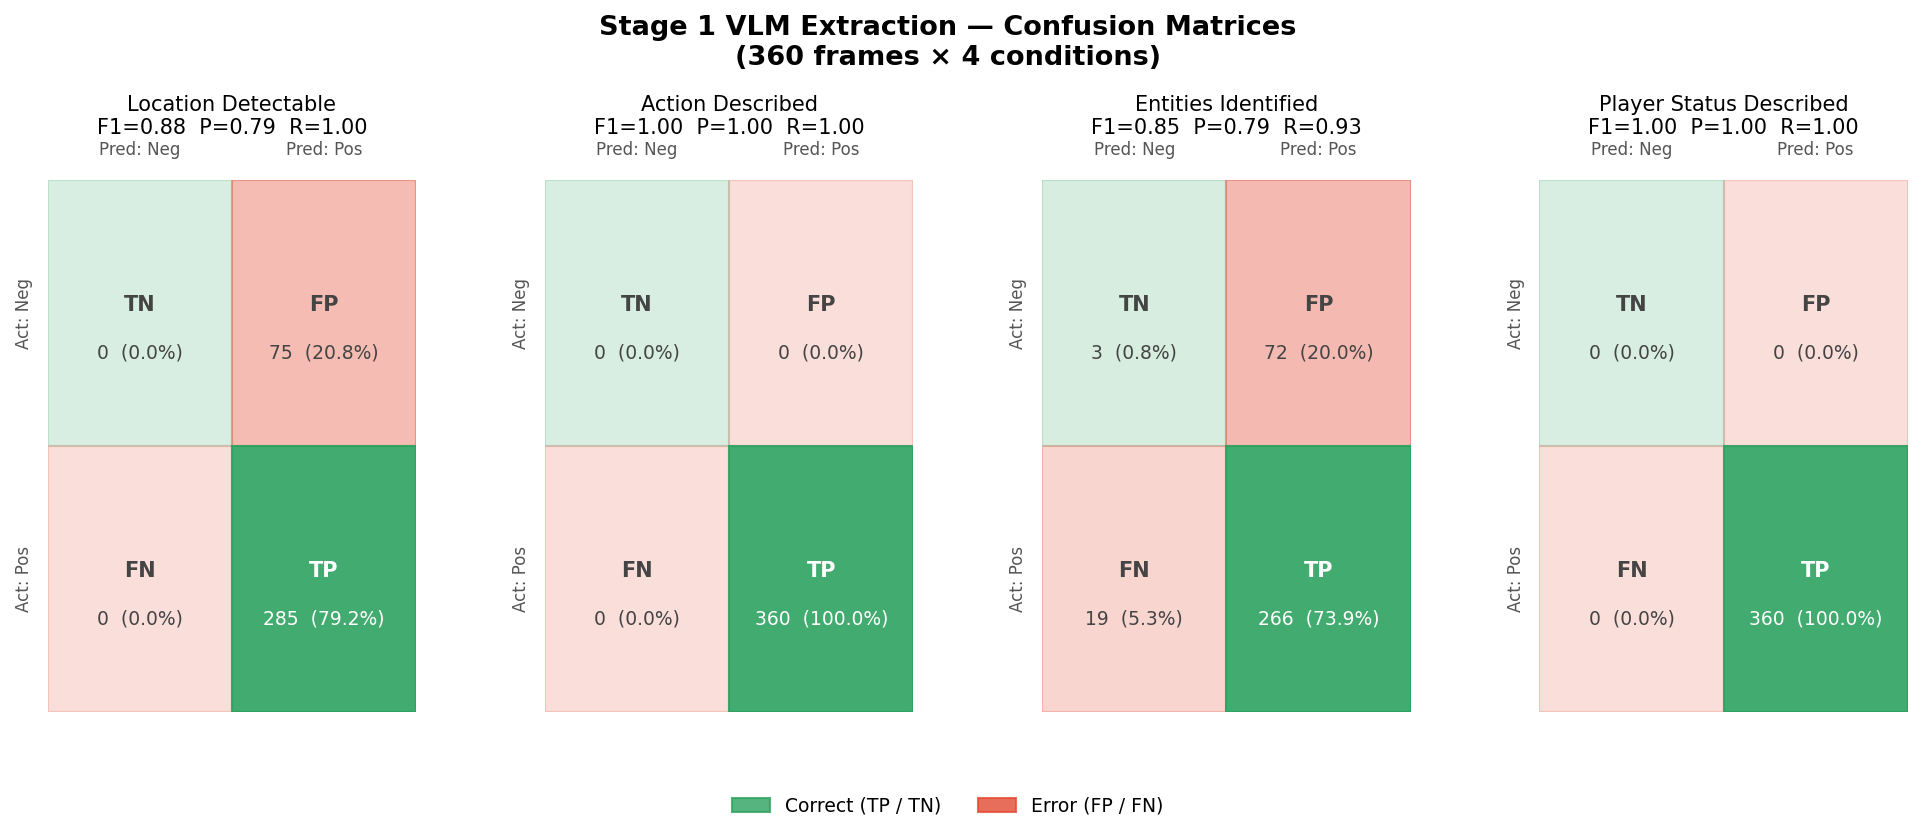
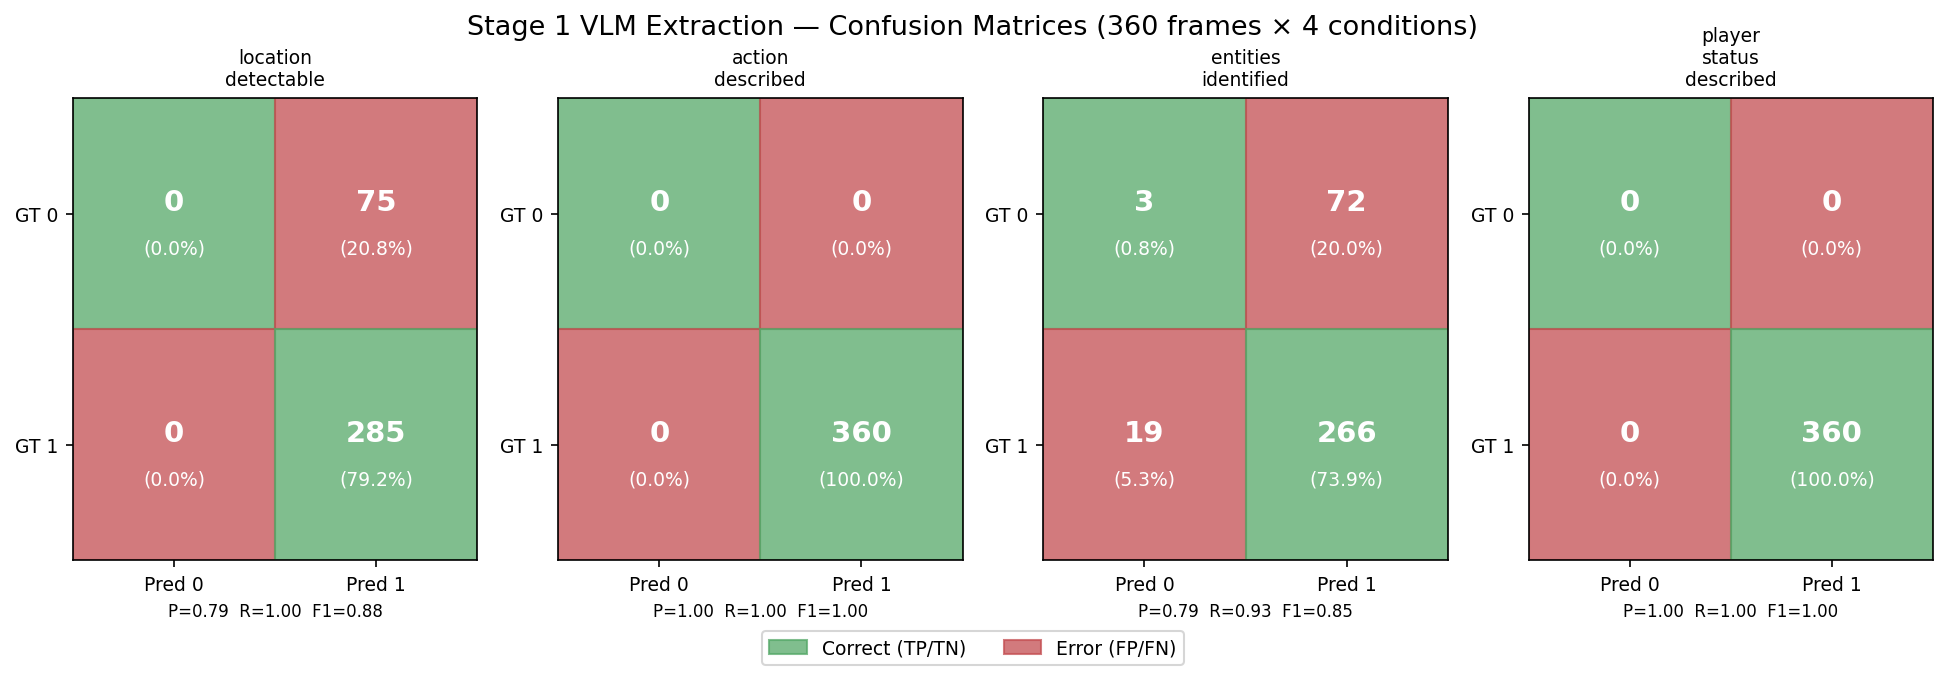
Regenerate figures 06/07/08 with corrected data and 5 judges
- Fig 06: confusion matrices rebuilt from ground_truth_labels.csv
- Fig 07: radar chart expanded from 2 to 5 judges (Gemini, Llama-3.3,
  Qwen3, Llama-4, Claude) with 6-run computed averages
- Fig 08: 3-way bar chart corrected Groq values (R:4.83->4.67,
  ER:4.50->4.33, En:4.50->4.33)
- generate_discussion_figure.py now generates all three figures in one run

diff --git a/src/generate_discussion_figure.py b/src/generate_discussion_figure.py
@@ -1,64 +1,219 @@
 """
-Generate Figure 08: 3-way grouped bar chart (Human vs Gemini vs Groq)
-across all 7 Adams dimensions — for the Discussion section.
+Generate evaluation figures for the MLSP paper / Master's report:
+
+  06_stage1_confusion_matrices.png  — per-condition TP/TN/FP/FN grids
+  07_judge_radar.png                — 5-judge radar across 7 Adams dimensions
+  08_three_way_comparison.png       — grouped bar: Human vs Gemini vs Groq
+
+Run from the repo root:
+    python src/generate_discussion_figure.py
 """
+
+import os
+from pathlib import Path
+from collections import defaultdict
 
 import matplotlib
 matplotlib.use("Agg")
 import matplotlib.pyplot as plt
+import matplotlib.patches as mpatches
 import numpy as np
-import os
+import pandas as pd
 
-# ── Data ────────────────────────────────────────────────────────────────────
-dimensions = ["Grounding", "Coherence", "Credibility", "Repetition",
+PROJECT_ROOT = Path(__file__).resolve().parent.parent
+FIGURES      = PROJECT_ROOT / "data" / "analysis" / "figures"
+GT_CSV       = PROJECT_ROOT / "evaluation" / "ground_truth_labels.csv"
+
+FIGURES.mkdir(parents=True, exist_ok=True)
+
+# ── shared dimension labels ──────────────────────────────────────────────────
+DIM_LABELS = ["Grounding", "Coherence", "Credibility", "Repetition",
               "Arb.\nContent", "Emotional\nRichness", "Engagement"]
 
-human  = [4.67, 4.33, 4.17, 5.00, 5.00, 3.33, 4.00]
-gemini = [4.67, 5.00, 4.83, 5.00, 5.00, 5.00, 5.00]
-groq   = [4.17, 5.00, 4.17, 4.83, 5.00, 4.50, 4.50]
+DIM_SHORT  = ["Ground", "Coher", "Cred", "Repet", "Arb", "EmRich", "Engage"]
 
-# ── Layout ──────────────────────────────────────────────────────────────────
-x     = np.arange(len(dimensions))
-width = 0.26
-fig, ax = plt.subplots(figsize=(11, 5))
 
-bars_h = ax.bar(x - width, human,  width, label="Human raters",       color="#4C72B0", zorder=3)
-bars_g = ax.bar(x,         gemini, width, label="Gemini 2.5 Flash",   color="#55A868", zorder=3)
-bars_r = ax.bar(x + width, groq,   width, label="Groq / Llama-3.3-70B", color="#C44E52", zorder=3)
+# ============================================================
+#  Figure 06 — Stage-1 confusion matrices
+# ============================================================
+def gen_confusion_matrices():
+    if not GT_CSV.is_file():
+        print(f"  [06] SKIP — {GT_CSV} not found")
+        return
 
-# value labels on top of every bar
-for bars in (bars_h, bars_g, bars_r):
-    for bar in bars:
-        h = bar.get_height()
-        ax.text(bar.get_x() + bar.get_width() / 2, h + 0.04,
-                f"{h:.2f}", ha="center", va="bottom", fontsize=8)
+    df = pd.read_csv(GT_CSV)
+    conditions = [
+        "location_detectable",
+        "action_described",
+        "entities_identified",
+        "player_status_described",
+    ]
+    short = {
+        "location_detectable":      "location_detectable",
+        "action_described":         "action_described",
+        "entities_identified":      "entities_identified",
+        "player_status_described":  "player_status_described",
+    }
 
-# ── Axes formatting ──────────────────────────────────────────────────────────
-ax.set_ylim(2.5, 5.55)
-ax.set_xticks(x)
-ax.set_xticklabels(dimensions, fontsize=10)
-ax.set_ylabel("Average score (1–5 scale)", fontsize=11)
-ax.set_title(
-    "Three-way Evaluation Comparison — Human Raters vs. LLM Judges\n"
-    "(Adams 7 dimensions · averaged over 6 Minecraft runs)",
-    fontsize=12, pad=10
-)
-ax.yaxis.grid(True, linestyle="--", alpha=0.6, zorder=0)
-ax.set_axisbelow(True)
-ax.legend(loc="lower right", fontsize=10, framealpha=0.9)
+    metrics = {}
+    for cond in conditions:
+        sub = df[df["Condition_Tested"] == cond]
+        tp = ((sub["Ground_Truth"] == 1) & (sub["VLM_Prediction"] == 1)).sum()
+        tn = ((sub["Ground_Truth"] == 0) & (sub["VLM_Prediction"] == 0)).sum()
+        fp = ((sub["Ground_Truth"] == 0) & (sub["VLM_Prediction"] == 1)).sum()
+        fn = ((sub["Ground_Truth"] == 1) & (sub["VLM_Prediction"] == 0)).sum()
+        total = tp + tn + fp + fn
+        metrics[cond] = dict(tp=int(tp), tn=int(tn), fp=int(fp), fn=int(fn), n=int(total))
 
-# highlight the Emotional Richness column — biggest gap
-ax.axvspan(x[5] - 0.45, x[5] + 0.45, color="gold", alpha=0.15, zorder=1,
-           label="_nolegend_")
-ax.text(x[5], 2.6, "largest gap", ha="center", va="bottom",
-        fontsize=8, style="italic", color="goldenrod")
+    fig, axes = plt.subplots(1, 4, figsize=(16, 4))
+    fig.suptitle(
+        "Stage 1 VLM Extraction — Confusion Matrices (360 frames × 4 conditions)",
+        fontsize=13, y=1.02
+    )
 
-plt.tight_layout()
+    for ax, cond in zip(axes, conditions):
+        m   = metrics[cond]
+        mat = np.array([[m["tn"], m["fp"]],
+                        [m["fn"], m["tp"]]])
+        pct = mat / m["n"] * 100
 
-out_path = os.path.join(
-    os.path.dirname(__file__),
-    "..", "data", "analysis", "figures", "08_three_way_comparison.png"
-)
-os.makedirs(os.path.dirname(out_path), exist_ok=True)
-plt.savefig(out_path, dpi=150, bbox_inches="tight")
-print(f"Saved: {os.path.abspath(out_path)}")
+        colors = [["#55A868", "#C44E52"],
+                  ["#C44E52", "#55A868"]]
+
+        for r in range(2):
+            for c in range(2):
+                ax.add_patch(plt.Rectangle((c, 1 - r), 1, 1,
+                                           color=colors[r][c], alpha=0.75))
+                ax.text(c + 0.5, 1 - r + 0.55,
+                        str(mat[r, c]),
+                        ha="center", va="center", fontsize=14, fontweight="bold", color="white")
+                ax.text(c + 0.5, 1 - r + 0.35,
+                        f"({pct[r, c]:.1f}%)",
+                        ha="center", va="center", fontsize=9, color="white")
+
+        ax.set_xlim(0, 2)
+        ax.set_ylim(0, 2)
+        ax.set_xticks([0.5, 1.5])
+        ax.set_xticklabels(["Pred 0", "Pred 1"], fontsize=9)
+        ax.set_yticks([0.5, 1.5])
+        ax.set_yticklabels(["GT 1", "GT 0"], fontsize=9)
+        ax.set_title(cond.replace("_", "\n"), fontsize=9, pad=6)
+
+        prec = m["tp"] / (m["tp"] + m["fp"]) if (m["tp"] + m["fp"]) else 0
+        rec  = m["tp"] / (m["tp"] + m["fn"]) if (m["tp"] + m["fn"]) else 0
+        f1   = 2*prec*rec/(prec+rec) if (prec+rec) else 0
+        ax.set_xlabel(f"P={prec:.2f}  R={rec:.2f}  F1={f1:.2f}", fontsize=8)
+
+    green_p = mpatches.Patch(color="#55A868", alpha=0.75, label="Correct (TP/TN)")
+    red_p   = mpatches.Patch(color="#C44E52", alpha=0.75, label="Error (FP/FN)")
+    fig.legend(handles=[green_p, red_p], loc="lower center",
+               ncol=2, fontsize=9, bbox_to_anchor=(0.5, -0.08))
+
+    out = FIGURES / "06_stage1_confusion_matrices.png"
+    fig.savefig(out, dpi=150, bbox_inches="tight")
+    plt.close(fig)
+    print(f"  Saved: {out}")
+
+
+# ============================================================
+#  Figure 07 — 5-judge radar chart
+# ============================================================
+def gen_radar():
+    # 6-run averages (20260420_* Minecraft runs only)
+    judges = {
+        "Gemini 2.5 Flash":    [4.67, 5.00, 4.83, 5.00, 5.00, 5.00, 5.00],
+        "Llama-3.3-70B":       [4.17, 5.00, 4.17, 4.67, 5.00, 4.33, 4.33],
+        "Qwen3-32B":           [4.33, 5.00, 4.83, 5.00, 5.00, 4.33, 4.83],
+        "Llama-4-Scout":       [5.00, 5.00, 5.00, 5.00, 5.00, 4.83, 4.83],
+        "Claude-Haiku":        [4.17, 4.67, 3.67, 4.50, 5.00, 4.17, 3.67],
+    }
+    colors = ["#2ca02c", "#1f77b4", "#ff7f0e", "#9467bd", "#d62728"]
+
+    N      = len(DIM_SHORT)
+    angles = np.linspace(0, 2 * np.pi, N, endpoint=False).tolist()
+    angles += angles[:1]   # close the polygon
+
+    fig, ax = plt.subplots(figsize=(8, 8), subplot_kw=dict(polar=True))
+
+    for (label, scores), color in zip(judges.items(), colors):
+        vals = scores + scores[:1]
+        ax.plot(angles, vals, "-o", label=label, color=color, linewidth=2, markersize=5)
+        ax.fill(angles, vals, alpha=0.06, color=color)
+
+    ax.set_theta_offset(np.pi / 2)
+    ax.set_theta_direction(-1)
+    ax.set_thetagrids(np.degrees(angles[:-1]), DIM_SHORT, fontsize=11)
+    ax.set_ylim(2.5, 5.2)
+    ax.set_yticks([3.0, 3.5, 4.0, 4.5, 5.0])
+    ax.set_yticklabels(["3.0", "3.5", "4.0", "4.5", "5.0"], fontsize=8)
+    ax.grid(color="grey", linestyle="--", linewidth=0.5, alpha=0.5)
+
+    ax.set_title(
+        "Inter-Judge Comparison — 5 Judges × 7 Adams Dimensions\n"
+        "(averaged over 6 Minecraft runs)",
+        fontsize=12, pad=20
+    )
+    ax.legend(loc="upper right", bbox_to_anchor=(1.35, 1.15), fontsize=10)
+
+    out = FIGURES / "07_judge_radar.png"
+    fig.savefig(out, dpi=150, bbox_inches="tight")
+    plt.close(fig)
+    print(f"  Saved: {out}")
+
+
+# ============================================================
+#  Figure 08 — 3-way grouped bar chart (Human / Gemini / Groq)
+# ============================================================
+def gen_three_way_bar():
+    # 6-run averages — corrected Groq values
+    human  = [4.67, 4.33, 4.17, 5.00, 5.00, 3.33, 4.00]
+    gemini = [4.67, 5.00, 4.83, 5.00, 5.00, 5.00, 5.00]
+    groq   = [4.17, 5.00, 4.17, 4.67, 5.00, 4.33, 4.33]   # corrected R/ER/En
+
+    x     = np.arange(len(DIM_LABELS))
+    width = 0.26
+    fig, ax = plt.subplots(figsize=(11, 5))
+
+    bars_h = ax.bar(x - width, human,  width, label="Human raters",         color="#4C72B0", zorder=3)
+    bars_g = ax.bar(x,         gemini, width, label="Gemini 2.5 Flash",     color="#55A868", zorder=3)
+    bars_r = ax.bar(x + width, groq,   width, label="Groq / Llama-3.3-70B", color="#C44E52", zorder=3)
+
+    for bars in (bars_h, bars_g, bars_r):
+        for bar in bars:
+            h = bar.get_height()
+            ax.text(bar.get_x() + bar.get_width() / 2, h + 0.04,
+                    f"{h:.2f}", ha="center", va="bottom", fontsize=8)
+
+    ax.set_ylim(2.5, 5.55)
+    ax.set_xticks(x)
+    ax.set_xticklabels(DIM_LABELS, fontsize=10)
+    ax.set_ylabel("Average score (1–5 scale)", fontsize=11)
+    ax.set_title(
+        "Three-way Evaluation Comparison — Human Raters vs. LLM Judges\n"
+        "(Adams 7 dimensions · averaged over 6 Minecraft runs)",
+        fontsize=12, pad=10
+    )
+    ax.yaxis.grid(True, linestyle="--", alpha=0.6, zorder=0)
+    ax.set_axisbelow(True)
+    ax.legend(loc="lower right", fontsize=10, framealpha=0.9)
+
+    # highlight Emotional Richness column — biggest human-vs-machine gap
+    ax.axvspan(x[5] - 0.45, x[5] + 0.45, color="gold", alpha=0.15, zorder=1)
+    ax.text(x[5], 2.6, "largest gap", ha="center", va="bottom",
+            fontsize=8, style="italic", color="goldenrod")
+
+    plt.tight_layout()
+
+    out = FIGURES / "08_three_way_comparison.png"
+    fig.savefig(out, dpi=150, bbox_inches="tight")
+    plt.close(fig)
+    print(f"  Saved: {out}")
+
+
+# ============================================================
+if __name__ == "__main__":
+    print("Generating evaluation figures...")
+    gen_confusion_matrices()
+    gen_radar()
+    gen_three_way_bar()
+    print("Done.")
